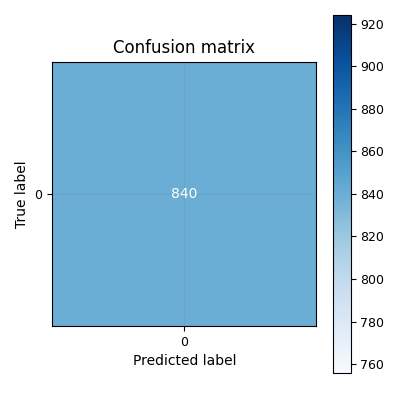
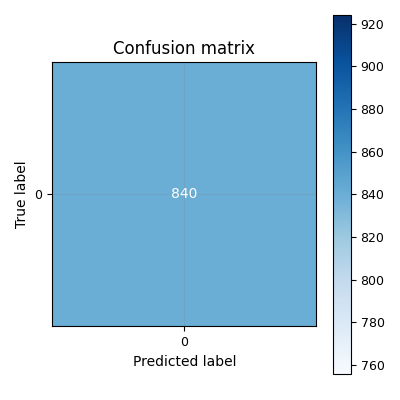
preparation for experiments should be done

diff --git a/code/evaluation/cross_validation.py b/code/evaluation/cross_validation.py
@@ -99,8 +99,7 @@ class LogisticProbe:
             if self.num_classes > 2:
                 self.model = LogisticRegression(
                     max_iter=2000, class_weight="balanced",
-                    multi_class="multinomial", solver="lbfgs",
-                    random_state=_SEED,
+                    solver="lbfgs", random_state=_SEED,
                 )
             else:
                 self.model = LogisticRegression(
@@ -110,20 +109,30 @@ class LogisticProbe:
         else:
             self.model = Ridge(alpha=1.0)
 
-        self.model.fit(X, y)
+        if self.task_type == "classification" and len(np.unique(y)) < 2:
+            self._single_class = float(y[0]) if len(y) > 0 else 0.0
+        else:
+            self._single_class = None
+            self.model.fit(X, y)
         return self
+
+    def predict(self, X: np.ndarray) -> np.ndarray:
+        if getattr(self, "_single_class", None) is not None:
+            return np.full(len(X), self._single_class)
+        return self.model.predict(X)
 
     def evaluate(self, X: np.ndarray, y: np.ndarray) -> Dict[str, Any]:
         """Evaluate and return metrics in the same format as SingleTaskModel.evaluate()."""
         metrics: Dict[str, Any] = {}
 
         if self.task_type == "classification":
-            y_pred = self.model.predict(X)
+            y_pred = self.predict(X)
             y_prob = None
-            try:
-                y_prob = self.model.predict_proba(X)
-            except AttributeError:
-                pass
+            if getattr(self, "_single_class", None) is None:
+                try:
+                    y_prob = self.model.predict_proba(X)
+                except AttributeError:
+                    pass
 
             metrics["accuracy"] = float(accuracy_score(y, y_pred))
 
@@ -148,7 +157,7 @@ class LogisticProbe:
                 except Exception:
                     pass
         else:
-            y_pred = self.model.predict(X)
+            y_pred = self.predict(X)
             metrics["mae"] = float(mean_absolute_error(y, y_pred))
             metrics["rmse"] = float(mean_squared_error(y, y_pred) ** 0.5)
             try:
@@ -234,6 +243,7 @@ class CrossValidator:
         probe_fold_preds: List[np.ndarray] = []
 
         best_arch_spec: Optional[Dict] = None  # discovered on fold 0
+        best_optuna_params: Optional[Dict] = None
 
         X_tensor = torch.tensor(X, dtype=torch.float32)
         y_tensor = torch.tensor(y, dtype=torch.float32)
@@ -295,9 +305,10 @@ class CrossValidator:
                     early_stopping_patience=self.patience,
                     ordinal_sigma=ordinal_sigma,
                 )
-                best_arch_spec = search_out["best_params"]["architecture"]
+                best_optuna_params = search_out["best_params"]
+                best_arch_spec = best_optuna_params["architecture"]
                 print(f"  ✓ Best architecture: {best_arch_spec['hidden_dims']}, "
-                      f"dropout={best_arch_spec['dropout']:.2f}")
+                      f"dropout={best_arch_spec['dropout']:.2f}, lr={best_optuna_params.get('lr', 1e-3):.5f}")
 
             # Re-train the best architecture on full fold-train
             _set_seed(_SEED + fold_idx)
@@ -313,11 +324,11 @@ class CrossValidator:
                 model,
                 inner_train_loader,
                 val_loader=inner_val_loader,
-                n_epochs=100,
-                lr=1e-3,
-                weight_decay=1e-4,
+                n_epochs=300,
+                lr=best_optuna_params.get("lr", 1e-3),
+                weight_decay=best_optuna_params.get("weight_decay", 1e-4),
                 device=self.device,
-                scheduler="plateau",
+                scheduler=best_optuna_params.get("scheduler", "plateau"),
                 early_stopping_patience=self.patience,
                 ordinal_sigma=ordinal_sigma,
             )
@@ -363,7 +374,7 @@ class CrossValidator:
             probe.fit(X_train_np, y_train_np)
             probe_metrics = probe.evaluate(X_test_np, y_test_np)
             probe_fold_metrics.append(probe_metrics)
-            probe_fold_preds.append(probe.model.predict(X_test_np))
+            probe_fold_preds.append(probe.predict(X_test_np))
 
             print(f"  Probe fold {fold_idx+1}: "
                   + ", ".join(f"{k}={v:.4f}" for k, v in probe_metrics.items()

diff --git a/code/main.py b/code/main.py
@@ -132,21 +132,26 @@ def main():
     # 6) Latent evaluation
     # ------------------------------------------------------------------
     print("Evaluating latent features …")
-#    try:
-#        latent_metrics = metrics.evaluate_latent_features(t_latent_features, e_latent_features, results_path)
-#    except Exception as e:
-#        print(f"⚠ Latent evaluation failed: {e}")
-#        latent_metrics = None
-    
-    
+    latent_metrics_file = os.path.join(results_path, "latent_metrics.json")
+    if not reset and os.path.exists(latent_metrics_file):
+        print("  → Loading cached latent metrics …")
+        with open(latent_metrics_file, "r") as f:
+            latent_metrics = json.load(f)
+    else:
+        try:
+            latent_metrics = metrics.evaluate_latent_features(t_latent_features, e_latent_features, results_path)
+            with open(latent_metrics_file, "w") as f:
+                json.dump(latent_metrics, f, indent=4)
+            print("  → Latent metrics computed and cached.")
+        except Exception as e:
+            print(f"⚠ Latent evaluation failed: {e}")
+            latent_metrics = None
     # ------------------------------------------------------------------
     # 7) Training – separate models per task
     # ------------------------------------------------------------------
     print("Training models for each task")
     input_dim = t_latent_features.dataset[0][0].numel()
-    # We now have 2 tasks (age, abnormal) instead of 3.
-    # dataset[0] is (latent_vec, gender, age, abnormal), so length is 4.
-    num_tasks = 2
+    # dataset[0] is (latent_vec, gender, age, abnormal)
     metrics_all = {}
     hyperparams_all = {}
     cv_results_all = {}  # populated only when --cv is active
@@ -186,14 +191,22 @@ def main():
         )
         print("WARNING: sample_ids missing; falling back to per-epoch random split.")
 
-    # Hard-coded tasks: (Index 0 is gender in dataset tuple, but we skip it)
+    # Define tasks dynamically based on dataset corpus
     # The dataset tuples are: (latent, gender_val, age_val, abnorm_val)
-    # We map loop index 0 -> age (dataset index 1 + 1 = 2)
-    # We map loop index 1 -> abnormal (dataset index 2 + 1 = 3)
-    task_map = {
-        0: ("regression", "age", 2),
-        1: ("classification", "abnormal", 3),
-    }
+    # index 2 = age, index 3 = abnormal
+    task_map = {}
+    if data_corp == "lemon":
+        # LEMON represents healthy participants; we only predict age
+        task_map[0] = ("regression", "age", 2)
+    elif data_corp in ("tuh", "harvard"):
+        # TUH/Harvard are clinical; we predict abnormality
+        task_map[0] = ("classification", "abnormal", 3)
+    else:
+        # Fallback: run both
+        task_map[0] = ("regression", "age", 2)
+        task_map[1] = ("classification", "abnormal", 3)
+        
+    num_tasks = len(task_map)
 
     def build_xy(dataset, target_tuple_idx):
         X = torch.stack([s[0].detach().clone().float() for s in dataset])

diff --git a/code/evaluation/model_training/single_task_model.py b/code/evaluation/model_training/single_task_model.py
@@ -164,7 +164,6 @@ class SingleTaskModel(nn.Module):
                         preds = (probs >= 0.5).float()
                     
                     correct_cls += (preds == y).sum().item()
-                    pred_positive += preds.sum().item()
 
                     # collect for plots/metrics
                     y_true_all.extend(y.detach().cpu().numpy().astype(float).tolist())
@@ -181,11 +180,11 @@ class SingleTaskModel(nn.Module):
             if self.num_classes > 1:
                 metrics["accuracy_adj"] = correct_adj / max(total, 1)
             
-            pred_negative = max(total, 0) - pred_positive
-            metrics["pred_counts"] = {
-                "label_0": int(pred_negative),
-                "label_1": int(pred_positive),
-            }
+            unique, counts = np.unique(y_pred_all, return_counts=True)
+            metrics["pred_counts"] = {f"label_{int(k)}": int(v) for k, v in zip(unique, counts)}
+            if self.num_classes == 1:
+                metrics["pred_counts"].setdefault("label_0", 0)
+                metrics["pred_counts"].setdefault("label_1", 0)
 
             # Additional classification metrics
             try:

diff --git a/code/latent_extraction/extractor.py b/code/latent_extraction/extractor.py
@@ -53,7 +53,7 @@ def _run_single_parallel(method: str, x):
         return extract_c22(x)
     raise ValueError(f"Method not supported for parallel execution: {method}")
 
-def extract_latent_features(data: DataLoader, batch_size, method, save_path="", n_workers: int = 64):
+def extract_latent_features(data: DataLoader, batch_size, method, save_path="", n_workers: int = 32):
     """
     Extract latent features from the EEG data and optionally save them.
     """

diff --git a/code/evaluation/evaluation.py b/code/evaluation/evaluation.py
@@ -80,11 +80,5 @@ def save_results(metrics, file_path: str):
             else:
                 f.write(f"{key}: {val_repr}\n")
 
-    # Also generate Markdown & JSON via utils.reporting
-    try:
-        from utils.reporting import write_markdown_report
-        write_markdown_report(metrics, file_path)
-    except Exception as e:
-        print(f"⚠ Could not write Markdown report: {e}")
 
 

diff --git a/code/evaluation/model_training/optuna_search.py b/code/evaluation/model_training/optuna_search.py
@@ -92,7 +92,7 @@ def tune_hyperparameters(
             model,
             train_loader,
             val_loader=val_loader,
-            n_epochs=100,
+            n_epochs=300,
             lr=lr,
             weight_decay=weight_decay,
             device=device,
